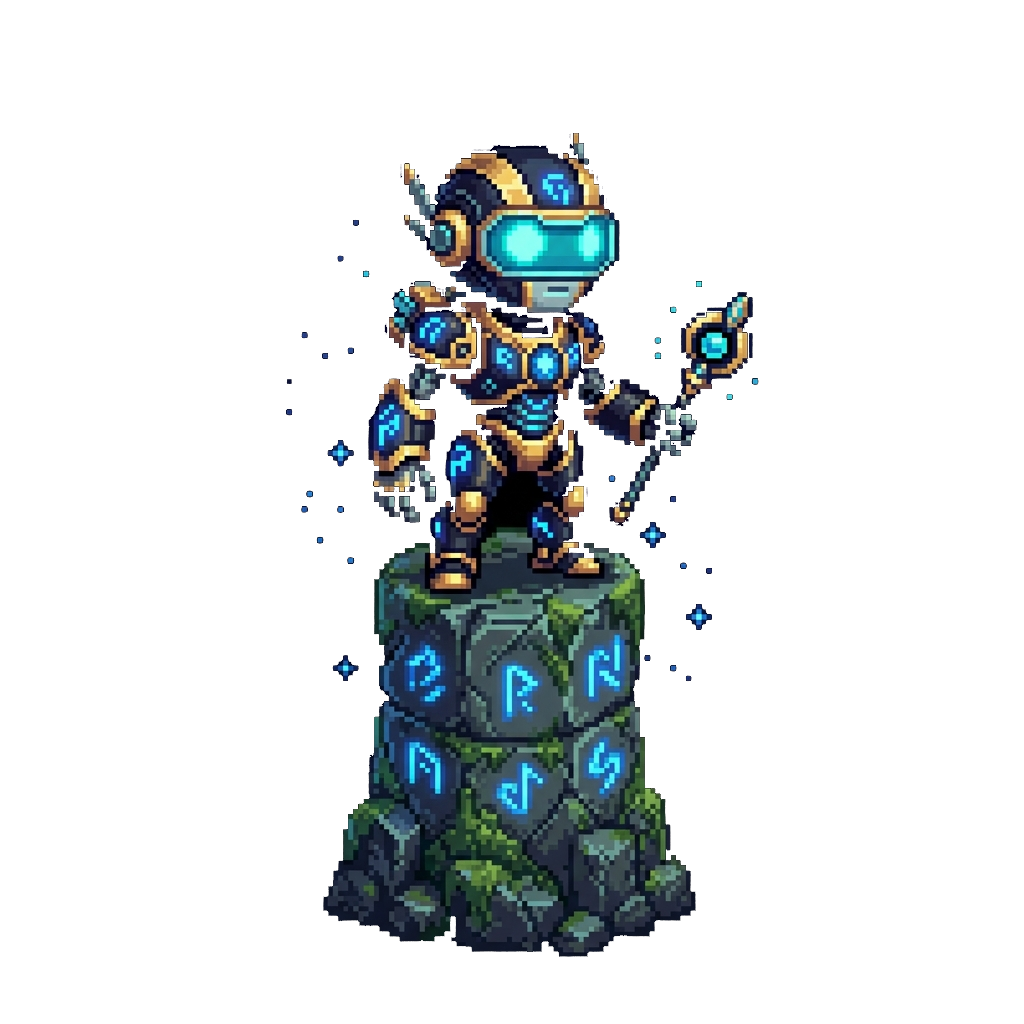
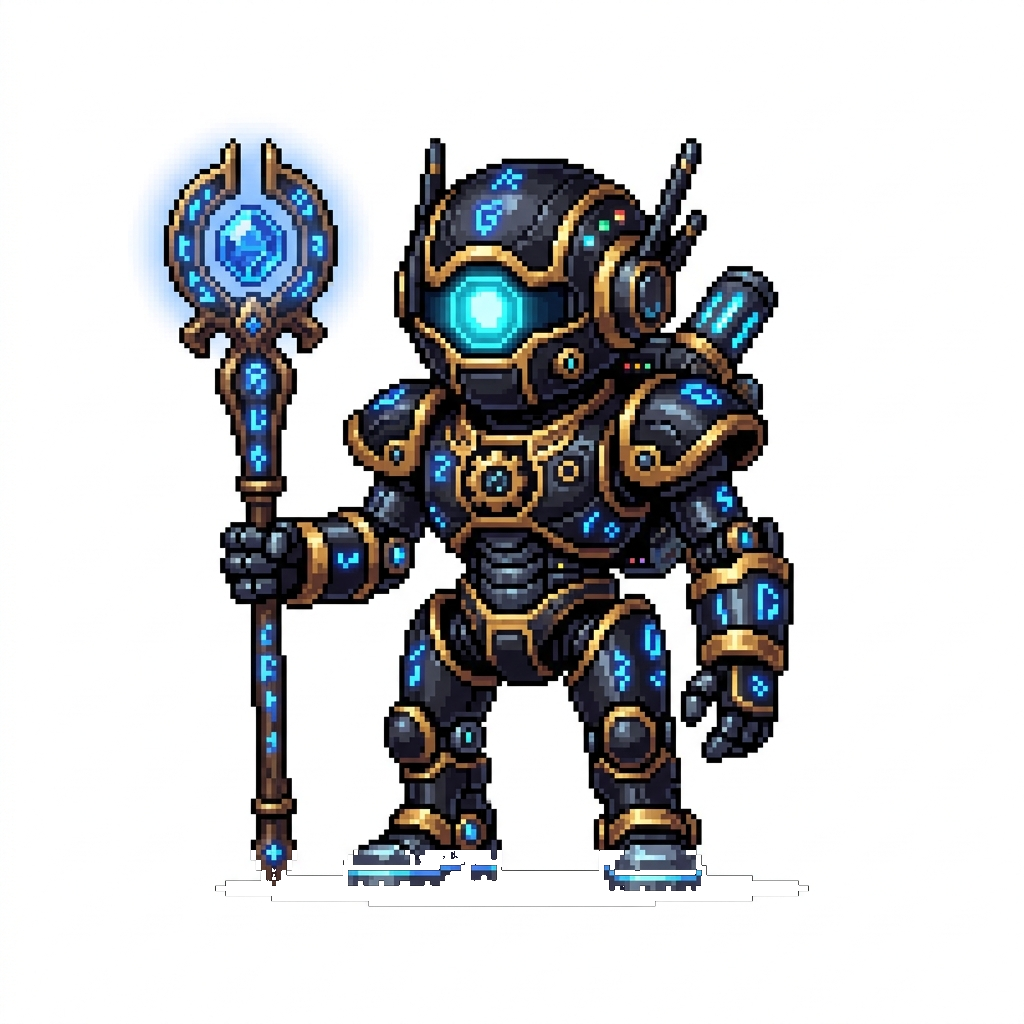
feat(hero): separate fixed stationary stone pedestal from swappable mounted companions

diff --git a/src/index.css b/src/index.css
@@ -1006,50 +1006,120 @@ body[data-module-theme="home"] .bottom-nav a.active {
   text-shadow: 0 0 20px rgba(74, 222, 128, 0.45);
 }
 
-/* ── Living Hero Companion Rig (On-Cliff Cutout, Breathing, Blinking & Tap) ── */
-.hero-companion-wrapper {
+/* ── Separated Fixed Stone Pedestal & Living Mounted Companion Rig ── */
+.hero-pedestal-container {
   position: absolute;
   right: 4%;
-  bottom: 8px;
+  bottom: 6px;
   z-index: 3;
   display: flex;
   flex-direction: column;
   align-items: center;
   justify-content: flex-end;
-  transform-origin: bottom center;
+  width: 140px;
+  height: 220px;
   cursor: pointer;
   -webkit-tap-highlight-color: transparent;
   user-select: none;
-  transition: filter 0.25s ease;
-}
-
-.hero-companion-figure {
-  position: relative;
-  width: 155px;
-  height: 180px;
-  z-index: 3;
-  display: flex;
-  align-items: flex-end;
-  justify-content: center;
 }
 
 @media (min-width: 640px) {
-  .hero-companion-wrapper {
+  .hero-pedestal-container {
     right: 6%;
-    bottom: 12px;
-  }
-  .hero-companion-figure {
-    width: 175px;
-    height: 200px;
-  }
-  .hero-companion-shadow {
-    width: 105px;
-    height: 18px;
+    bottom: 10px;
+    width: 160px;
+    height: 245px;
   }
 }
 
-/* ── 1. Natural Breathing Sine-Wave Body Animation ── */
-.hero-companion-body {
+/* ── 1. Fixed Stationary Layer: Cliff Base Contact Shadow ── */
+.hero-pedestal-ground-shadow {
+  position: absolute;
+  bottom: 2px;
+  width: 110px;
+  height: 18px;
+  background: radial-gradient(ellipse at center, rgba(0, 0, 0, 0.85) 0%, rgba(0, 0, 0, 0.4) 60%, transparent 80%);
+  border-radius: 50%;
+  pointer-events: none;
+  z-index: 1;
+}
+
+/* ── 2. Fixed Stationary Layer: Ancient Stone Rune Pillar (Zero Movement) ── */
+.hero-stone-pedestal {
+  position: absolute;
+  bottom: 0;
+  width: 100%;
+  height: 130px;
+  z-index: 2;
+  display: flex;
+  align-items: flex-end;
+  justify-content: center;
+  pointer-events: none;
+}
+
+.hero-pedestal-img {
+  width: 100%;
+  height: 100%;
+  object-fit: contain;
+  filter: drop-shadow(0 6px 12px rgba(0, 0, 0, 0.7));
+}
+
+.hero-pedestal-rune-glow {
+  position: absolute;
+  bottom: 22px;
+  width: 55%;
+  height: 60%;
+  border-radius: 50%;
+  pointer-events: none;
+  opacity: 0.65;
+  mix-blend-mode: screen;
+  filter: blur(6px);
+  transition: box-shadow 0.4s ease;
+}
+
+/* ── 3. Fixed Stationary Layer: Pillar Platform Surface Contact Shadow ── */
+.hero-pedestal-top-shadow {
+  position: absolute;
+  bottom: 114px;
+  width: 76px;
+  height: 12px;
+  background: radial-gradient(ellipse at center, rgba(0, 0, 0, 0.8) 0%, rgba(0, 0, 0, 0.35) 55%, transparent 75%);
+  border-radius: 50%;
+  pointer-events: none;
+  z-index: 3;
+}
+
+@media (min-width: 640px) {
+  .hero-pedestal-top-shadow {
+    bottom: 128px;
+    width: 88px;
+    height: 14px;
+  }
+}
+
+/* ── 4. Living Mounted Creature Layer (Breathing, Micro-Tilt, Tap Bounce) ── */
+.hero-companion-creature {
+  position: absolute;
+  bottom: 112px;
+  width: 110px;
+  height: 115px;
+  z-index: 4;
+  display: flex;
+  align-items: flex-end;
+  justify-content: center;
+  transform-origin: bottom center;
+  pointer-events: none;
+}
+
+@media (min-width: 640px) {
+  .hero-companion-creature {
+    bottom: 126px;
+    width: 125px;
+    height: 130px;
+  }
+}
+
+.hero-creature-body {
   position: relative;
   width: 100%;
   height: 100%;
@@ -1069,8 +1139,8 @@ body[data-module-theme="home"] .bottom-nav a.active {
   }
 }
 
-/* ── 2. Subtle Micro-Tilt (Curious Head Movement) ── */
-.hero-companion-wrapper.micro-tilt .hero-companion-body {
+/* Subtle Micro-Tilt (Curious Head Movement on Creature Only) */
+.hero-companion-creature.micro-tilt .hero-creature-body {
   animation: companionMicroTilt 2.2s cubic-bezier(0.4, 0, 0.2, 1);
 }
 
@@ -1089,8 +1159,8 @@ body[data-module-theme="home"] .bottom-nav a.active {
   }
 }
 
-/* ── 3. Interactive Tap Spring Bounce ── */
-.hero-companion-wrapper.tap-bounce .hero-companion-body {
+/* Interactive Tap Spring Bounce (Creature Only) */
+.hero-companion-creature.tap-bounce .hero-creature-body {
   animation: companionHappyBounce 0.55s cubic-bezier(0.34, 1.56, 0.64, 1);
 }
 
@@ -1109,12 +1179,12 @@ body[data-module-theme="home"] .bottom-nav a.active {
   }
 }
 
-/* ── 4. Main 32-Bit Pixel Character Cutout Image ── */
+/* Character Sprite Cutout */
 .hero-companion-img {
   width: 100%;
   height: 100%;
   object-fit: contain;
-  filter: drop-shadow(0 8px 16px rgba(0, 0, 0, 0.75));
+  filter: drop-shadow(0 6px 12px rgba(0, 0, 0, 0.7));
   border: none;
   background: transparent;
   pointer-events: auto;
@@ -1135,35 +1205,11 @@ body[data-module-theme="home"] .bottom-nav a.active {
   image-rendering: crisp-edges;
 }
 
-.hero-companion-wrapper:hover .hero-companion-img {
-  filter: drop-shadow(0 10px 20px rgba(52, 211, 153, 0.45)) drop-shadow(0 8px 16px rgba(0, 0, 0, 0.75)) brightness(1.06);
+.hero-pedestal-container:hover .hero-companion-img {
+  filter: drop-shadow(0 8px 16px var(--companion-ambient, rgba(52, 211, 153, 0.45))) drop-shadow(0 6px 12px rgba(0, 0, 0, 0.7)) brightness(1.06);
 }
 
-/* ── 5. Synchronized Stone Contact Shadow ── */
-.hero-companion-shadow {
-  position: absolute;
-  bottom: 2px;
-  width: 90px;
-  height: 16px;
-  background: radial-gradient(ellipse at center, rgba(0, 0, 0, 0.8) 0%, rgba(0, 0, 0, 0.4) 55%, transparent 75%);
-  border-radius: 50%;
-  pointer-events: none;
-  z-index: 2;
-  animation: companionShadowPulse 4.6s ease-in-out infinite;
-}
-
-@keyframes companionShadowPulse {
-  0%, 100% {
-    transform: scale(1);
-    opacity: 0.85;
-  }
-  50% {
-    transform: scale(0.9);
-    opacity: 0.55;
-  }
-}
-
-/* ── 6. Interactive Pixel Sparkles Burst on Tap ── */
+/* Interactive Pixel Sparkles Burst on Tap */
 .companion-tap-sparkle {
   position: absolute;
   pointer-events: none;
@@ -1186,7 +1232,7 @@ body[data-module-theme="home"] .bottom-nav a.active {
   }
 }
 
-/* ── 7. Ambient Diorama Particle Canvas ── */
+/* Ambient Diorama Particle Canvas */
 .hero-diorama-canvas {
   position: absolute;
   inset: 0;

diff --git a/src/components/HeroCharacter.tsx b/src/components/HeroCharacter.tsx
@@ -18,12 +18,10 @@ interface SparkleParticle {
 }
 
 /**
- * 32-Bit Pixel Art Hero Companion Rig.
- * Renders Archimedes the Sage Owl perched on a mossy rune pillar on the cliff ledge with:
- * - Subtle pixel breathing idle movement
- * - Occasional curious head/feather micro-tilt
- * - Synchronized stone contact shadow
- * - Interactive tap spring bounce & pixel sparkle motes
+ * 2-Layer Fixed Stone Pillar + Swappable Standing Companion Rig.
+ * - Layer 1 (Base): 1 Fixed, completely stationary stone rune pillar on the cliff with dynamic rune glow.
+ * - Layer 2 (Platform): Pillar top contact shadow.
+ * - Layer 3 (Mounted Creature): Swappable 32-bit pixel spirit guide with isolated breathing, micro-tilt, and tap bounce.
  */
 export function HeroCharacter({
   avatar,
@@ -37,7 +35,7 @@ export function HeroCharacter({
   const [sparkles, setSparkles] = useState<SparkleParticle[]>([]);
   const sparkleIdCounter = useRef(0);
 
-  // ── 1. Subtle Micro-Tilt Engine (Natural Idle Movement) ──
+  // ── 1. Subtle Micro-Tilt Engine (Natural Idle Movement on Character Layer Only) ──
   useEffect(() => {
     let tiltInterval: ReturnType<typeof setTimeout>;
     let returnTimeout: ReturnType<typeof setTimeout>;
@@ -66,13 +64,12 @@ export function HeroCharacter({
     };
   }, [companion.id]);
 
-  // ── 2. Interactive Tap Reactions ──
+  // ── 2. Interactive Tap Reactions (Applies to Creature & Spawns Sparkles) ──
   const handleTap = (e: React.MouseEvent<HTMLDivElement>) => {
     e.stopPropagation();
     setIsBouncing(true);
     setTimeout(() => setIsBouncing(false), 550);
 
-    // Spawn playful magical pixel spark motes
     const rect = e.currentTarget.getBoundingClientRect();
     const clickX = e.clientX - rect.left;
     const clickY = e.clientY - rect.top;
@@ -87,7 +84,6 @@ export function HeroCharacter({
 
     setSparkles((prev) => [...prev, ...newSparkles]);
 
-    // Clean up sparkles after animation
     setTimeout(() => {
       setSparkles((prev) => prev.filter((p) => !newSparkles.some((ns) => ns.id === p.id)));
     }, 700);
@@ -95,22 +91,46 @@ export function HeroCharacter({
 
   return (
     <div
-      className={`hero-companion-wrapper ${isBouncing ? 'tap-bounce' : ''} ${isTilting ? 'micro-tilt' : ''} ${className}`.trim()}
+      className={`hero-pedestal-container ${className}`.trim()}
       style={{
         ...style,
-        transform: `scale(${companion.scale}) translate(${companion.anchorOffset.x}px, ${companion.anchorOffset.y}px)`,
-      }}
+        '--companion-ambient': companion.ambientColor,
+      } as React.CSSProperties}
       onClick={handleTap}
       role="img"
       aria-label={`${companion.name}, ${companion.title}`}
       title={`${companion.name} (Tap to interact)`}
     >
-      {/* Stone Cliff Contact Shadow under the Pillar */}
-      <div className="hero-companion-shadow" />
+      {/* ── Fixed Stationary Layer: Cliff Contact Base Shadow ── */}
+      <div className="hero-pedestal-ground-shadow" />
 
-      {/* 32-Bit Pixel Character Figure */}
-      <div className="hero-companion-figure">
-        <div className="hero-companion-body">
+      {/* ── Fixed Stationary Layer: The Ancient Stone Rune Pillar ── */}
+      <div className="hero-stone-pedestal">
+        <img
+          src="/images/characters/stone-pedestal-pixel.png"
+          alt="Ancient Stone Rune Pillar"
+          className="hero-pedestal-img hero-pixel-sprite"
+        />
+        {/* Dynamic Rune Ambient Glow Pulse */}
+        <div
+          className="hero-pedestal-rune-glow"
+          style={{
+            boxShadow: `0 0 16px ${companion.ambientColor}44, inset 0 0 12px ${companion.ambientColor}33`,
+          }}
+        />
+      </div>
+
+      {/* ── Fixed Stationary Layer: Top Platform Surface Contact Shadow ── */}
+      <div className="hero-pedestal-top-shadow" />
+
+      {/* ── Living Creature Layer: Mounted on the Pillar Platform ── */}
+      <div
+        className={`hero-companion-creature ${isBouncing ? 'tap-bounce' : ''} ${isTilting ? 'micro-tilt' : ''}`}
+        style={{
+          transform: `scale(${companion.scale}) translate(${companion.anchorOffset.x}px, ${companion.anchorOffset.y}px)`,
+        }}
+      >
+        <div className="hero-creature-body">
           <img
             src={companion.bodySrc}
             alt={companion.name}
@@ -121,7 +141,7 @@ export function HeroCharacter({
           />
         </div>
 
-        {/* Interactive Tap Pixel Sparkles */}
+        {/* Tap Sparkle Particles */}
         {sparkles.map((sp) => (
           <span
             key={sp.id}
